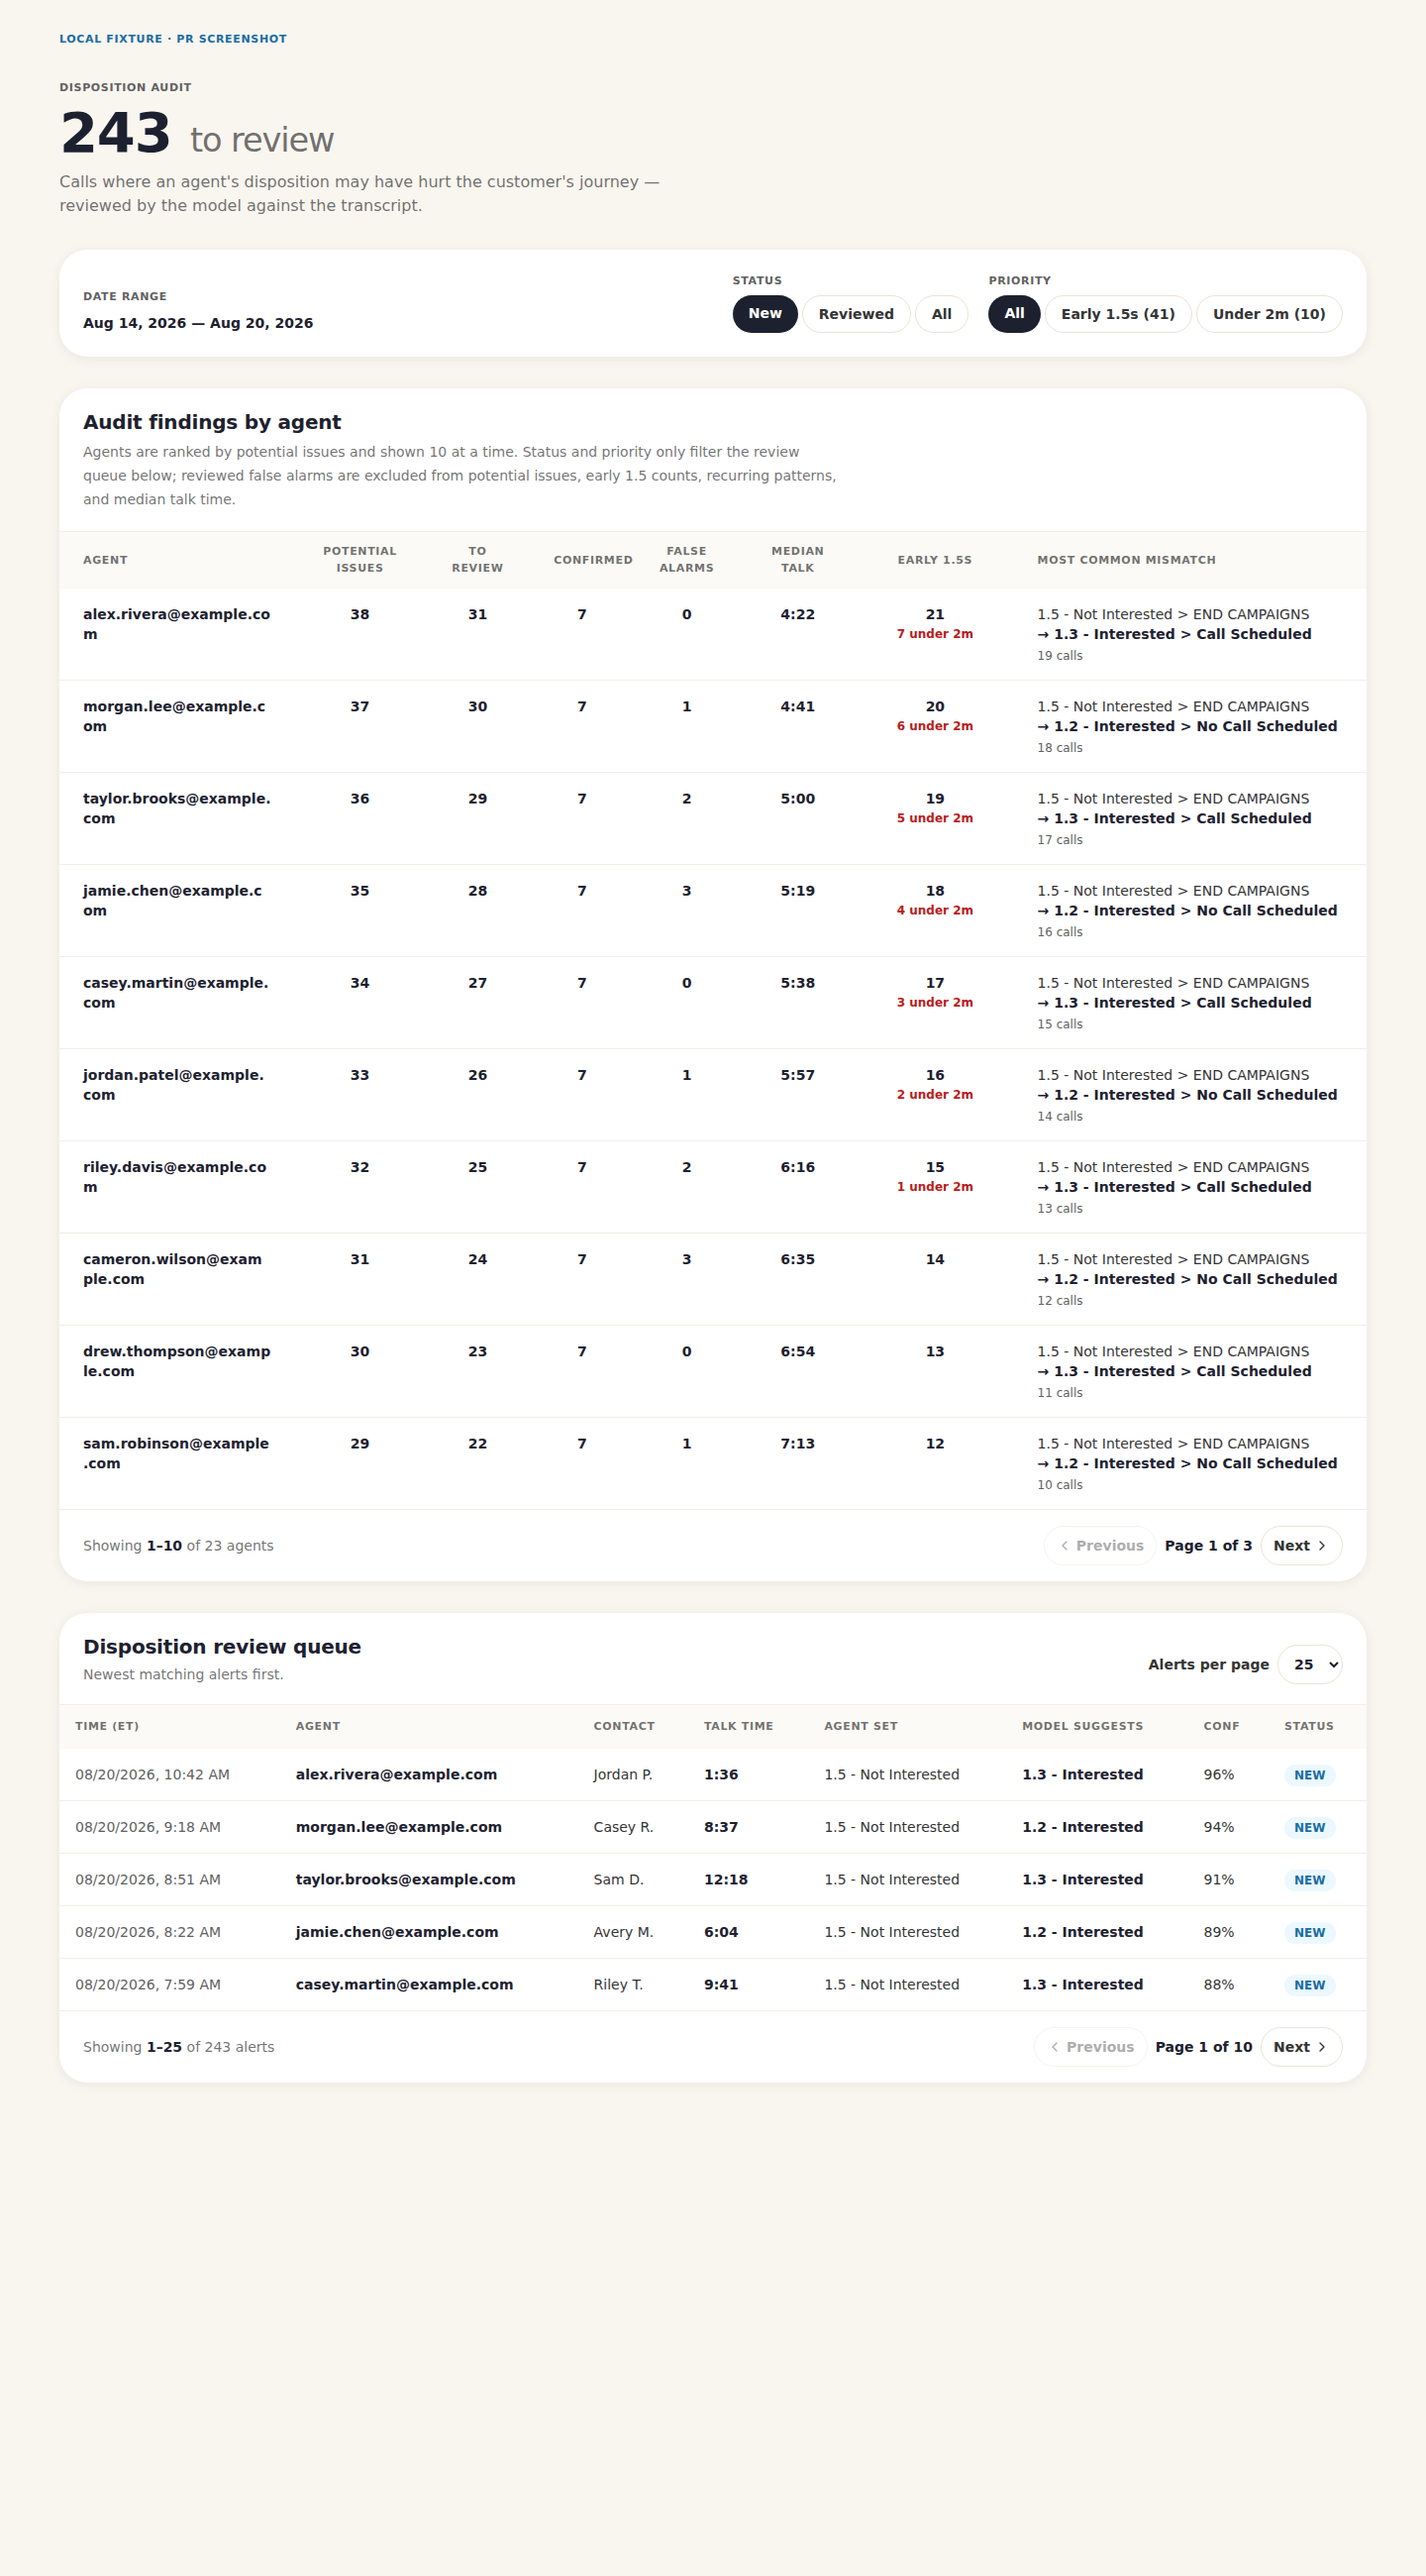
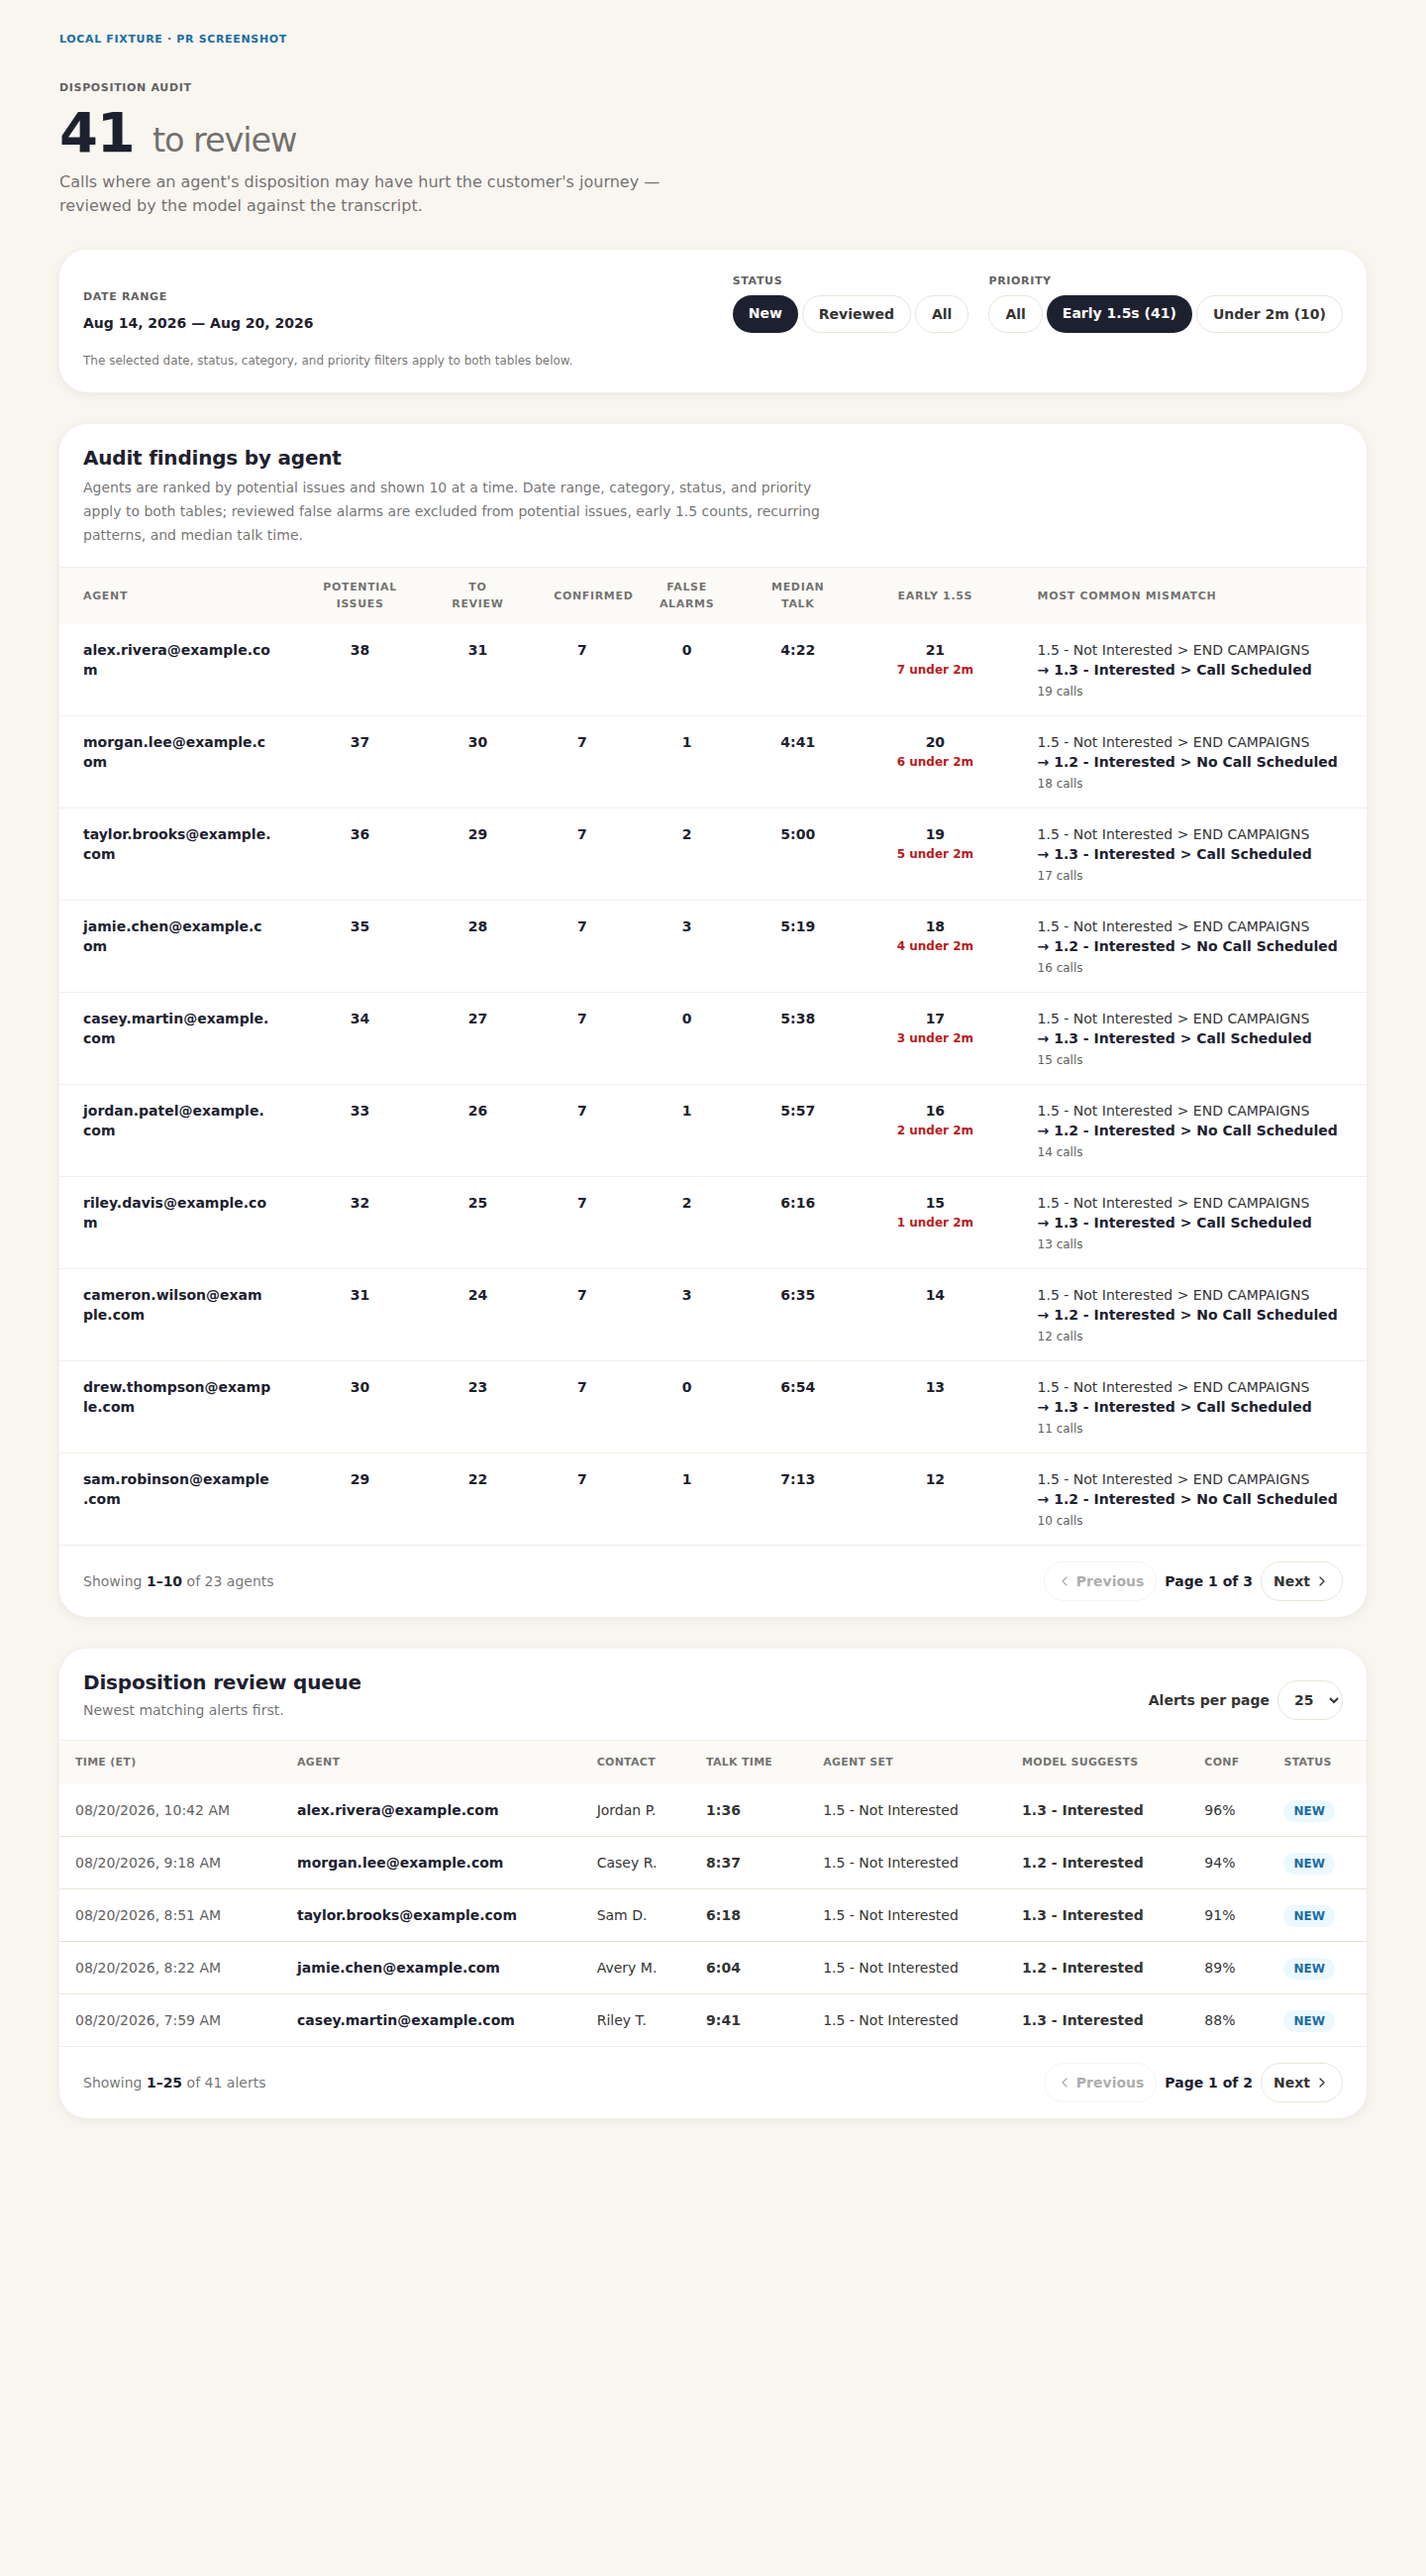
Apply audit filters to both tables

diff --git a/src/pages/DispositionAuditPage.tsx b/src/pages/DispositionAuditPage.tsx
@@ -79,7 +79,6 @@ export default function DispositionAuditPage() {
   )
   const { data, isPending, isFetching, isError, refetch } = useDispositionAudit(filters, scope)
   const allRows = useMemo(() => data ?? [], [data])
-  const agentStats = useMemo(() => aggregateDispositionAuditByAgent(allRows), [allRows])
   const loading = isPending && !data
 
   // Sync filter state to the URL (shareable view).
@@ -115,6 +114,7 @@ export default function DispositionAuditPage() {
       return priorityView === 'early' ? flag !== null : flag === 'severe'
     })
   }, [priorityView, statusRows])
+  const agentStats = useMemo(() => aggregateDispositionAuditByAgent(rows), [rows])
 
   const agentPagination = useMemo(
     () => paginate(agentStats, agentPage, AGENT_PAGE_SIZE),
@@ -216,7 +216,7 @@ export default function DispositionAuditPage() {
           <legend className="pennie-label">Status</legend>
           <div className="flex gap-1" role="radiogroup" aria-label="Filter by status">
             {(['new', 'reviewed', 'all'] as const).map(s => (
-              <button key={s} type="button" role="radio" aria-checked={statusView === s} onClick={() => { setStatusView(s); setAlertPage(1) }}
+              <button key={s} type="button" role="radio" aria-checked={statusView === s} onClick={() => { setStatusView(s); setAgentPage(1); setAlertPage(1) }}
                 className={`min-h-[40px] px-4 py-2 rounded-full text-sm font-semibold border transition-all ${
                   statusView === s ? 'bg-pennie-navy text-pennie-white border-pennie-navy' : 'bg-pennie-white border-border text-pennie-graphite hover:bg-pennie-beige'
                 }`}>
@@ -229,7 +229,7 @@ export default function DispositionAuditPage() {
           <legend className="pennie-label">Priority</legend>
           <div className="flex flex-wrap gap-1" role="radiogroup" aria-label="Filter by early 1.5 priority">
             {(['all', 'early', 'severe'] as const).map(priority => (
-              <button key={priority} type="button" role="radio" aria-checked={priorityView === priority} onClick={() => { setPriorityView(priority); setAlertPage(1) }}
+              <button key={priority} type="button" role="radio" aria-checked={priorityView === priority} onClick={() => { setPriorityView(priority); setAgentPage(1); setAlertPage(1) }}
                 className={`min-h-[40px] px-4 py-2 rounded-full text-sm font-semibold border transition-all ${
                   priorityView === priority ? 'bg-pennie-navy text-pennie-white border-pennie-navy' : 'bg-pennie-white border-border text-pennie-graphite hover:bg-pennie-beige'
                 }`}>
@@ -373,7 +373,7 @@ function AgentDispositionSummary({ pagination, refreshing, onPageChange }: {
             Audit findings by agent
           </h2>
           <p className="mt-1 max-w-3xl text-sm leading-6 text-pennie-graphite/70">
-            Agents are ranked by potential issues and shown 10 at a time. Status and priority only filter the review queue below; reviewed false alarms are excluded from potential issues, early 1.5 counts, recurring patterns, and median talk time.
+            Agents are ranked by potential issues and shown 10 at a time. Date range, category, status, and priority apply to both tables; reviewed false alarms are excluded from potential issues, early 1.5 counts, recurring patterns, and median talk time.
           </p>
         </div>
         <RefreshingHint active={refreshing} />
